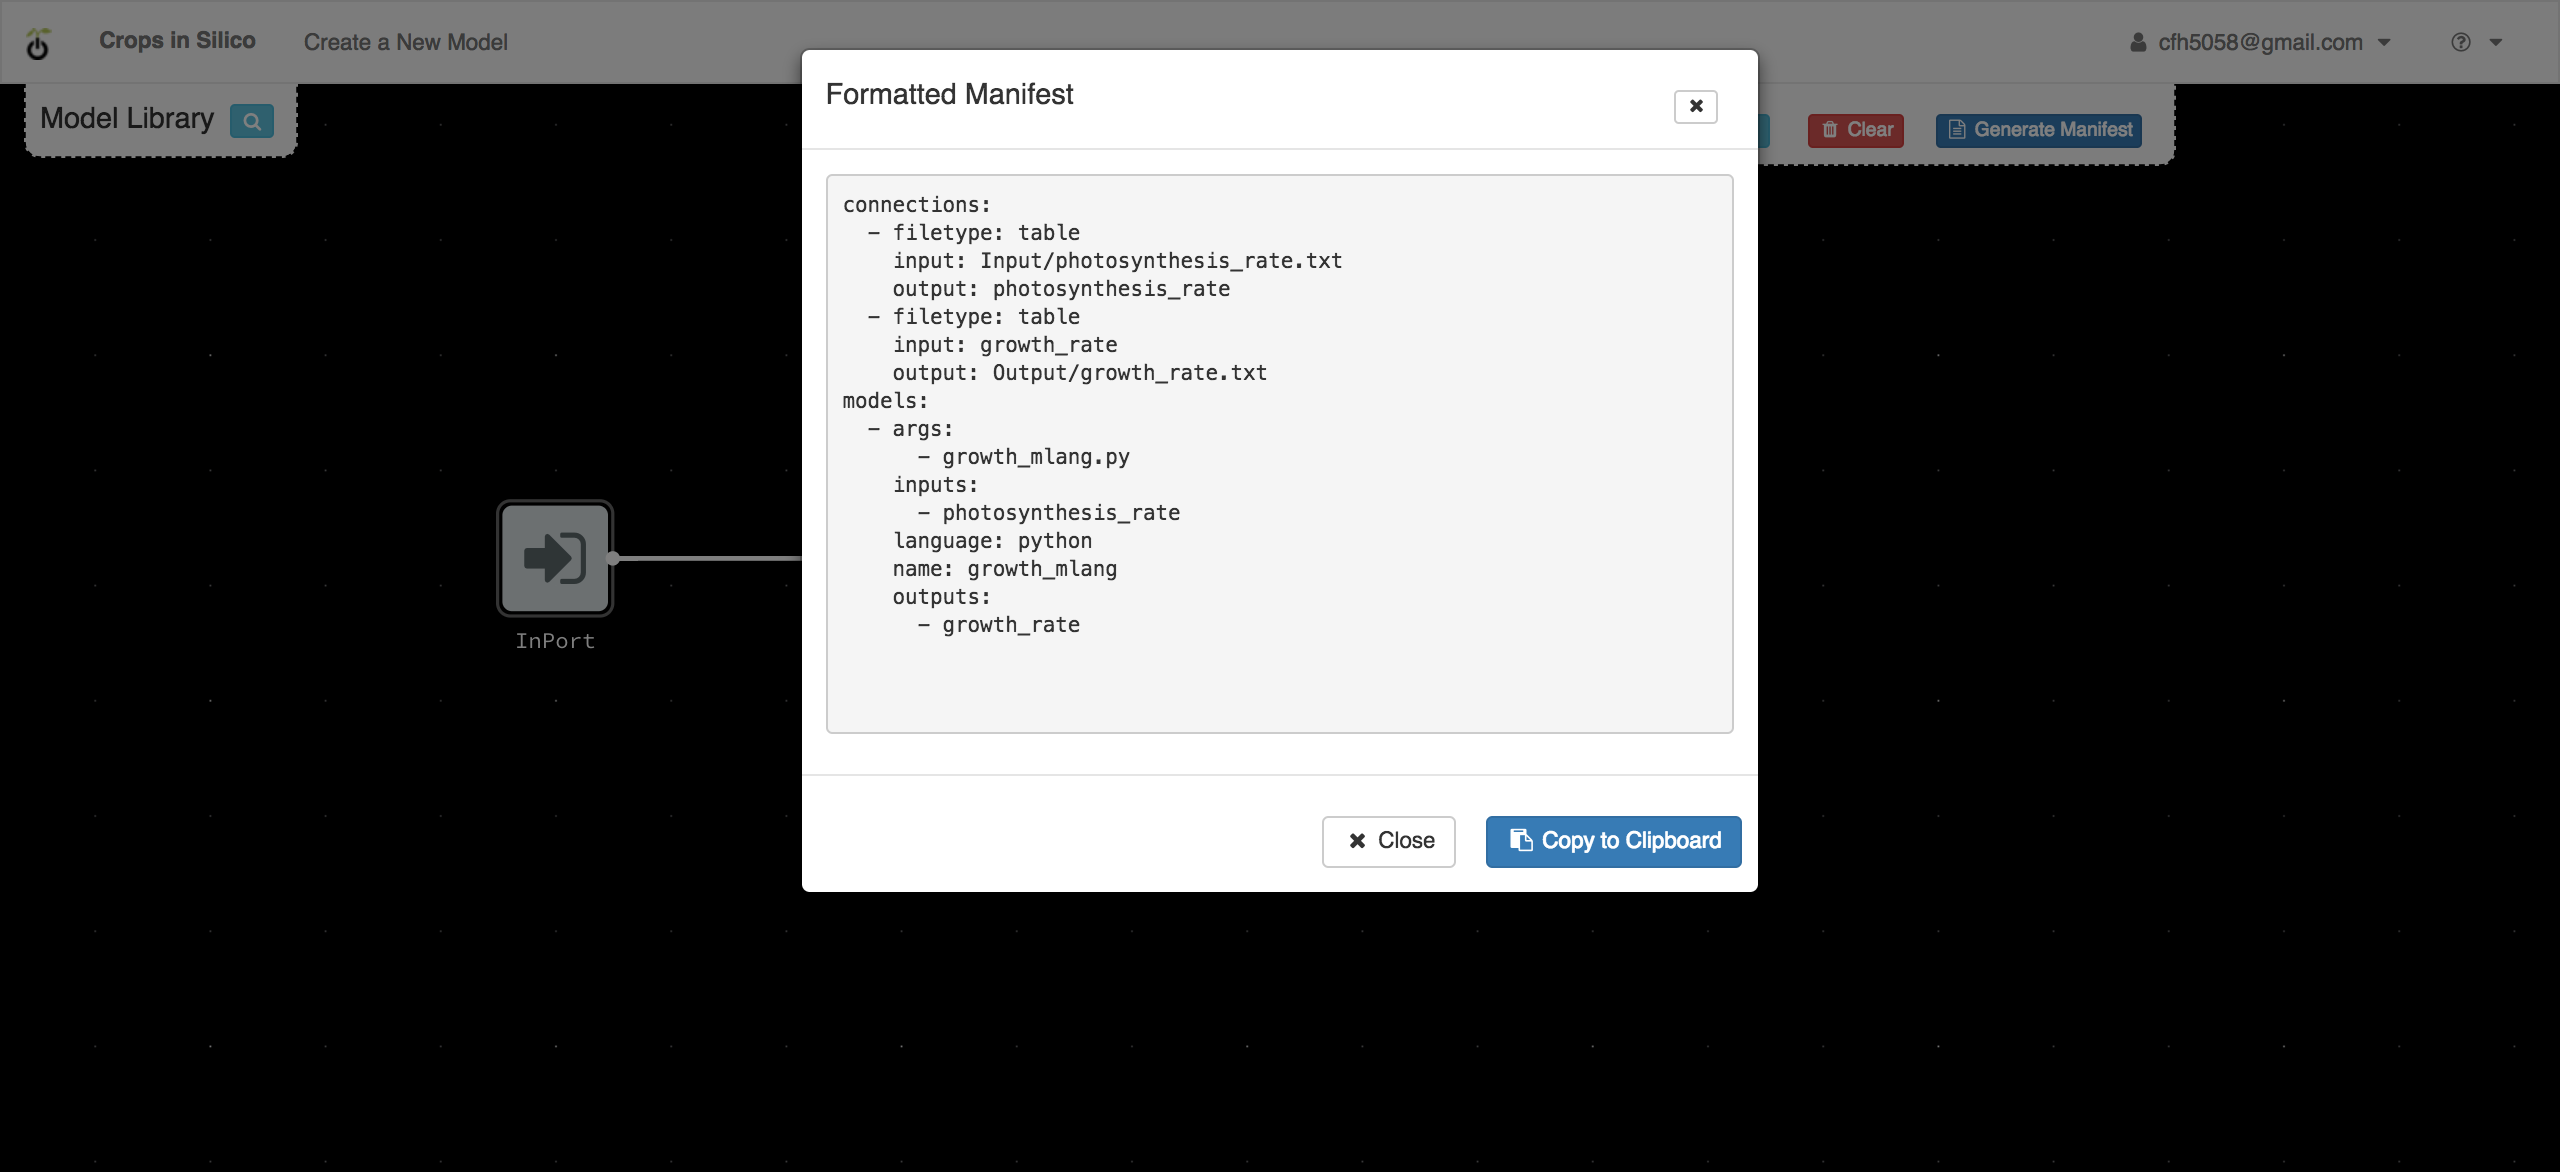
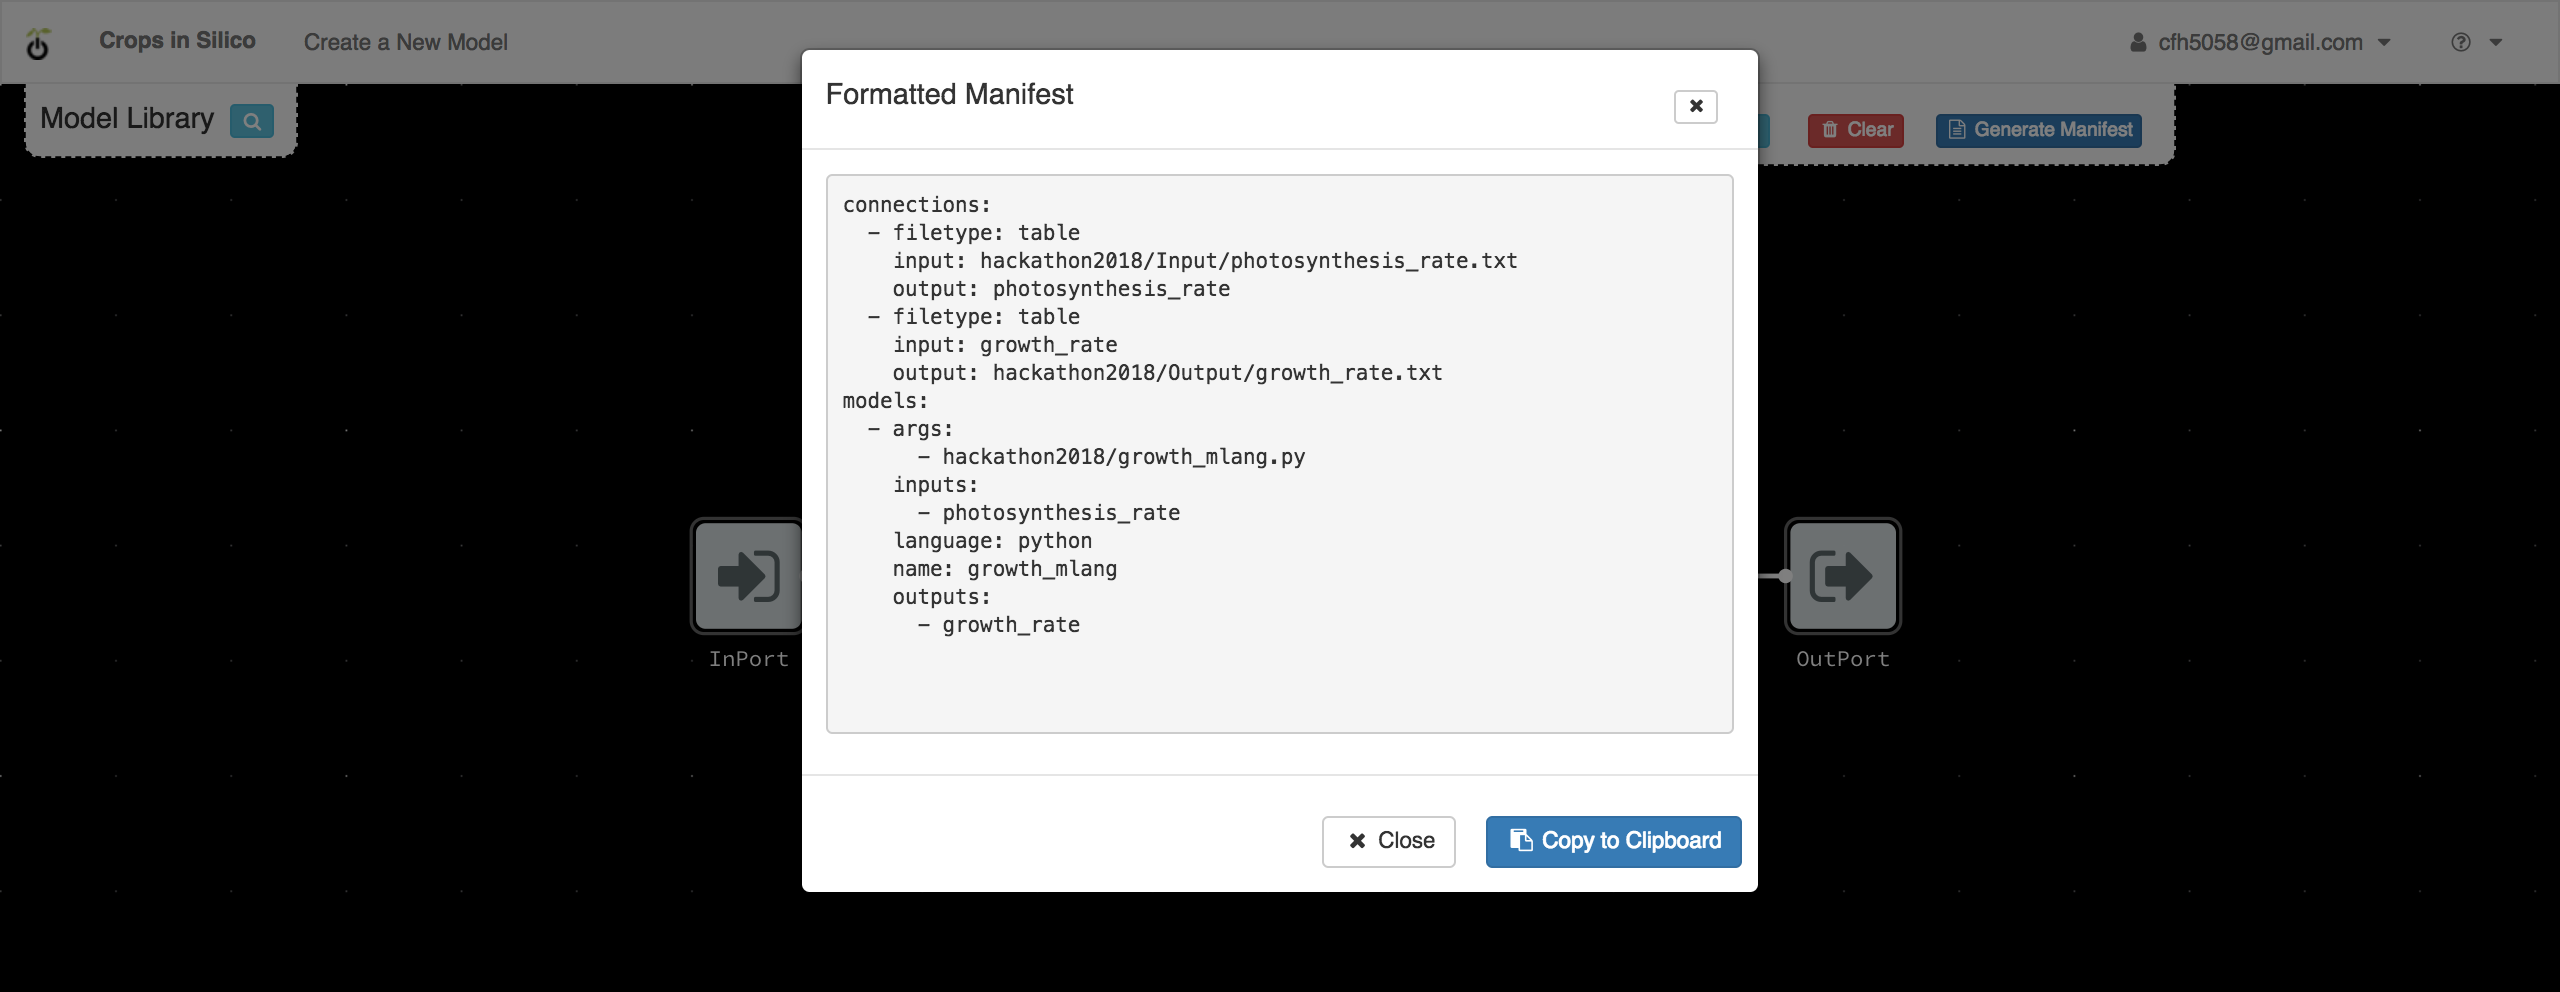
Add screen shots for transformation

diff --git a/docs/source/hackathon2018/connection.rst b/docs/source/hackathon2018/connection.rst
@@ -2,18 +2,111 @@
 Connecting Models to Models
 ###########################
 
-.. todo::
-   Review other example models
+
+Next we will connect your growth model to an existing network of models. From 
+the user interface, load the `hackathon2018` integration network. 
+
+.. image:: interface_images/interface_load.png
+
+You will see a network of 4 models connected to 6 input files.
+
+.. image:: interface_images/network_original.png
+
+By right clicking on each model, you can get information about the model's 
+inputs and outputs.
 
 
-Making Connections in the User Inteface
-=======================================
+Model Overview
+==============
 
-.. todo::
-   Link to UI and screen shot of UI with connections
+The canopy model takes as input an initial canopy structure, a growth rate, 
+a plant layout describing how the plant grows in x, y, and z, and a time step. 
+From this information it grows the canopy structure and outputs the updated 
+structure. The canopy model is written in C++.
 
-Once you have finalized your model connections, download the yaml to 
-the `hackathon2018` directory and save it as `multiple_models.yml`.
+.. image:: interface_images/network_canopy.png
+
+The light model takes as input an ambient light level and the 3D structure of 
+the canopy. It then calculates the light incident on each facet of the canopy 
+structure which it outputs.
+
+.. image:: interface_images/network_light.png
+
+The photosynthesis model takes as input a light intensity, temperature, and 
+CO2. From this information, it calculates and output the photosynthesis rate. 
+
+.. image:: interface_images/network_photosynthesis.png
+
+The growth model in this network is an alternative to the growth model we 
+were working with in the previous section. It takes photosynthesis rate as 
+an input and outputs the growth rate. We will be replacing this growth model 
+with the one you created.
+
+.. image:: interface_images/network_growth.png
+
+You can trace the data as it flows from files and from one model to the next.
+
+
+Replacing the Growth Model
+==========================
+
+For the next exercise, we will replace the existing growth model, with the 
+one you just created.
+
+
+Deleting the Old Model
+----------------------
+
+By right-clicking on the existing growth model, you can delete the existing 
+model from the canvas.
+
+.. image:: interface_images/network_delete.png
+
+
+Adding Your Model
+-----------------
+
+You can then add your model by clicking the blue '+' button next to your 
+model in the model palette.
+
+.. image:: interface_images/network_add.png
+
+Once the model is added to the canvas, move it to the left of the canvas.
+
+.. image:: interface_images/network_no_connect.png
+
+
+Making Connections
+------------------
+
+Now we want to connect our growth model to the other models in the network. 
+First we connect the input dot (on the left side) for our growth model to 
+the output from the photosynthesis model.
+
+.. image:: interface_images/network_input_dots.png
+
+To make the connection, click on one dot and then the other.
+
+.. image:: interface_images/network_input.png
+
+Next we connect the output from our growth model to the growth rate input 
+channel of the canopy model, by again clicking on one dot and then the other.
+
+.. image:: interface_images/network_output_dots.png
+
+.. image:: interface_images/network_output.png
+
+
+Creating the YAML
+=================
+
+Once you have finalized your model connections, you can use the interface to 
+create your YAML file by clicking the 'Generate Manifest' button,
+
+.. image:: interface_images/network_manifest.png
+
+Copy this information to you clipboard and past it into a new file 
+called `growth_network.yml` in the `hackthon2018` directory.
 
 
 Running the Model-to-Model Integration
@@ -21,9 +114,7 @@ Running the Model-to-Model Integration
 
 You can run the integration you just created by executing::
 
-  $ cisrun multiple_models.yml
+  $ cisrun growth_network.yml
 
-from the `hackathon2018` directory.
-
-.. todo::
-   Instructions for verifying that output is correct.
+from the `hackathon2018` directory. This will output information on the 
+screen from all of the models being run.

diff --git a/docs/source/hackathon2018/transformation.rst b/docs/source/hackathon2018/transformation.rst
@@ -3,7 +3,7 @@ Model Transformation
 ####################
 
 For the first part of this example we will be transforming a 
-toy growth model written in Python. Withing the hackathon2018 
+toy growth model written in Python. Within the hackathon2018 
 repository this model is ``growth.py``. The model takes 
 command line arguments defining the path to an input file and 
 an output file. The model then reads photosynthesis rates from 
@@ -156,7 +156,8 @@ your model.
 .. image:: interface_images/interface_model_form.png
 
 You can give your model any name, but make sure that you select 'Python' as 
-the model language, use the name of your transformed model (e.g. growth_mlang.py), 
+the model language, use the name of your transformed model with the `hackathon2018`
+directory included (e.g. `hackathon2018/growth_mlang.py`), 
 and the correct names of your input and output channels. For the example we have an 
 input channel called 'photosynthesis_rate' and an output channel called 'growth_rate'. 
 For the input and output channels to be added, you will need to click on the blue '+' 
@@ -210,7 +211,8 @@ and a form will pop up asking for information about the input port.
 .. image:: interface_images/interface_input_form.png
 
 For this example 
-you should select the 'file' type, a file name of 'Input/photosynthesis_rate.txt' 
+you should select the 'file' type, a file name of 
+'hackathon2018/Input/photosynthesis_rate.txt' 
 and a read method of 'table'. This tells the input port that it should read values 
 from a tab-delimited table line-by-line from the indicated file.
 
@@ -228,7 +230,8 @@ and a form will pop up asking for information about the output port.
 .. image:: interface_images/interface_output_form.png
 
 For this example 
-you should select the 'file' type, a file name of 'Output/growth_rate.txt', 
+you should select the 'file' type, a file name of 
+'hackathon2018/Output/growth_rate.txt', 
 and a write method of 'table'. This tells the output port that it should write values 
 to a tab-delimited table line-by-line in the indicated file.
 
@@ -275,7 +278,7 @@ running your model with connections to the file.
 .. image:: interface_images/interface_manifest.png
 
 You can then copy that information to your clipboard and past it into a new file 
-called `growth_to_file.yml` in the `hackthon2018` directory.
+called `growth_to_file.yml` in the `cis_home` directory.
 
 
 Running the Model-to-File Integration
@@ -285,10 +288,10 @@ You can run the integration you just created by executing::
 
   $ cisrun growth_to_file.yml
 
-from the `hackathon2018` directory. This will output information on the 
+from the `cis_home` directory. This will output information on the 
 calculated growth rates to the screen and generate the output file 
-'Output/growth_rate.txt'. If the model ran correctly, the output file should look 
-like this::
+'hackathon2018/Output/growth_rate.txt'. If the model ran correctly, the output file 
+should look like this::
 
   # %f
   2.500000

diff --git a/docs/source/hackathon2018/setup.rst b/docs/source/hackathon2018/setup.rst
@@ -45,7 +45,13 @@ Checkout Hackathon Example
 To get started, we will walk through transforming an example model and 
 connecting it to other models. To get the necessary materials, fork 
 the `hackathon2018 repository <https://github.com/cropsinsilico/hackathon2018>`_ 
-on GitHub (Fork button in the upper right) and clone your fork on your machine.::
+on GitHub (Fork button in the upper right), create a 'cis_home' directory for the 
+hackathon 
+
+  $ mkdir cis_home
+  $ cd cis_home
+
+and clone your fork on your machine into the 'cis_home' directory.::
 
   $ git clone https://github.com/[your username]/hackathon2018.git
 
@@ -57,4 +63,4 @@ is working::
 
 The tests script will display output from some of the models we will be using. 
 If you have any errors, please let us know so we can track down any issues you 
-might be having.
+might be having. Warnings are OK.
